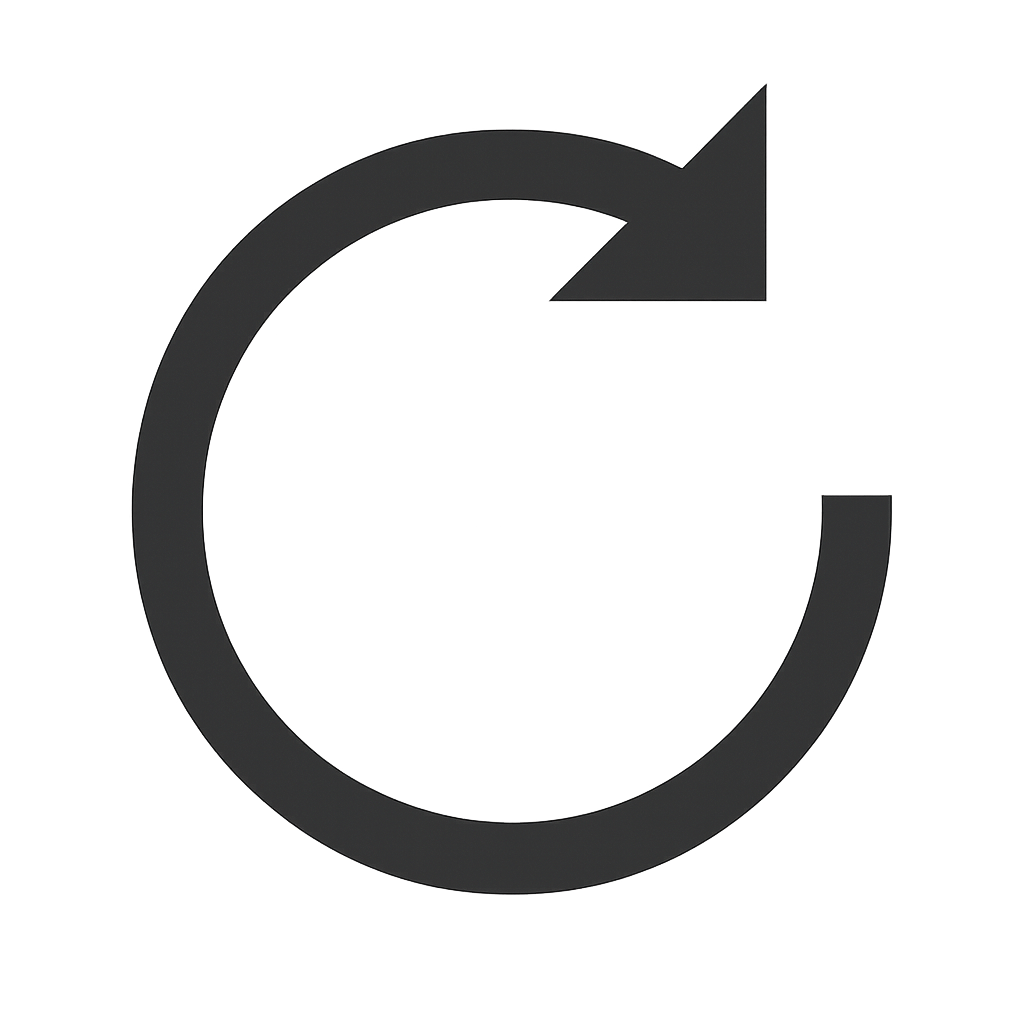
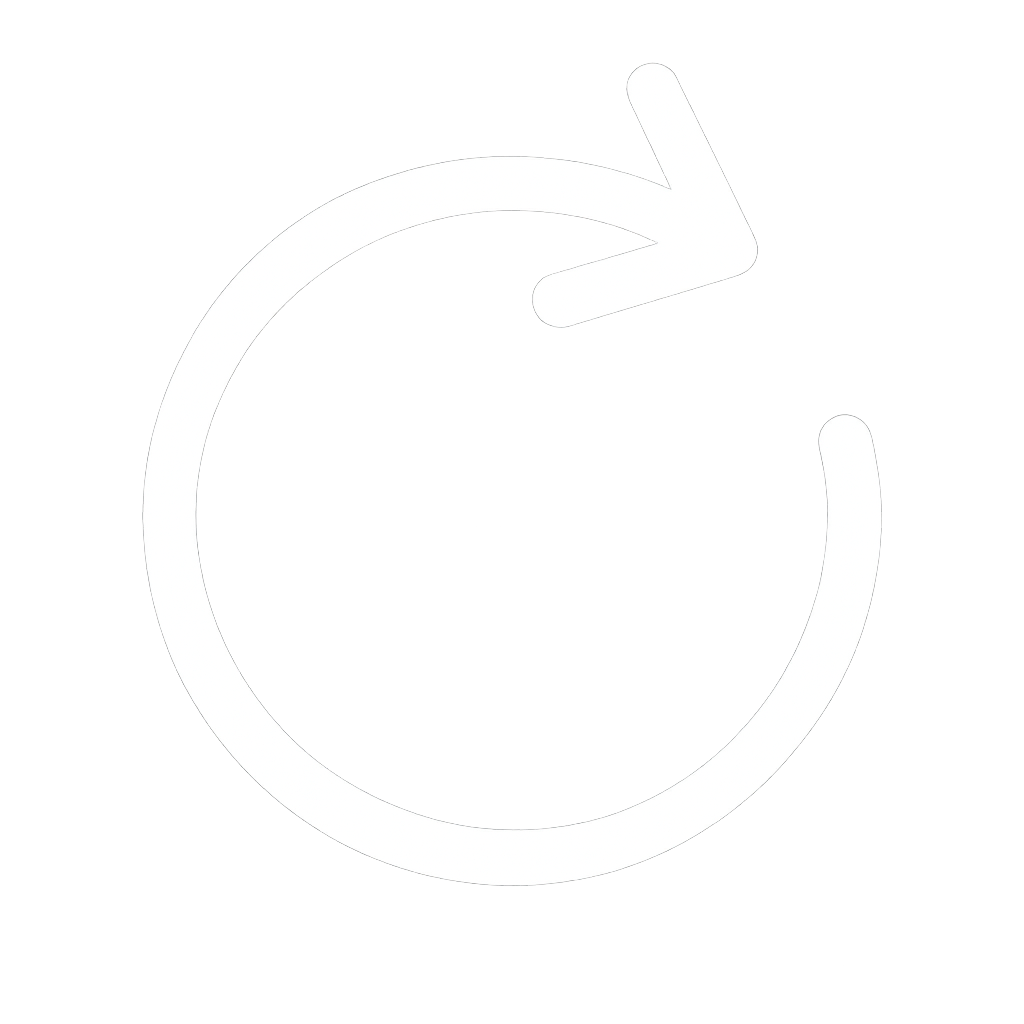
se agrega la funcionalidad del boton y cambio del color del icono reiniciar

Changed region(s): [[0.125, 0.0938, 0.875, 0.875]]

diff --git a/app.js b/app.js
@@ -29,3 +29,10 @@ function sortearAmigo(){
         document.getElementById("resultado").innerHTML = `el amigo secreto es: ${amigos[indiceAleatorio]}`;
     }
 }
+
+function reiniciar(){
+    amigos = [];
+    document.getElementById("listaAmigos").innerHTML = "";
+    document.getElementById("resultado").innerHTML = "";
+    document.getElementById("amigo").value = "";
+}
